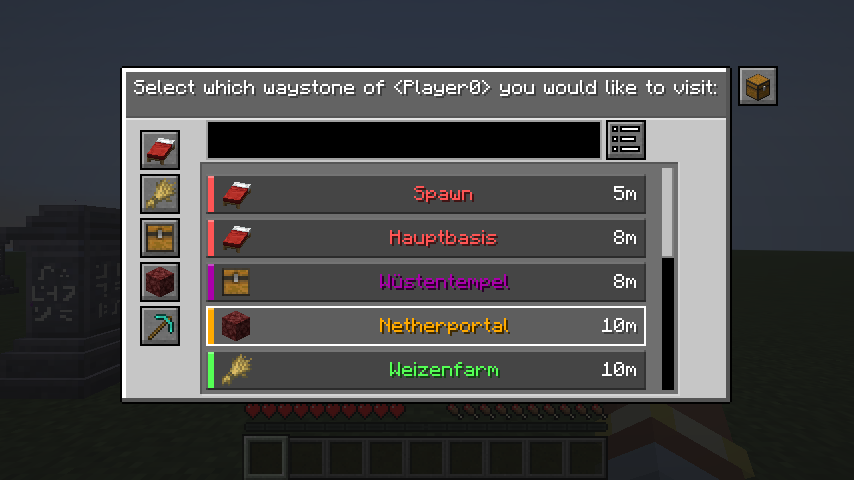
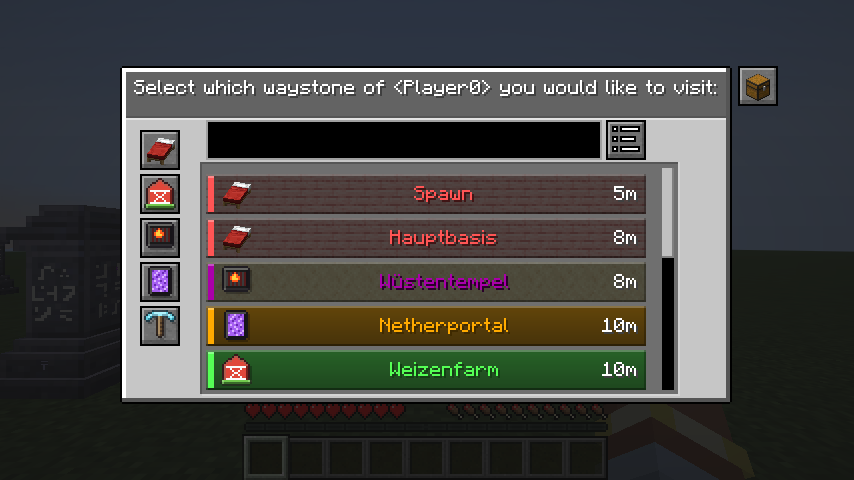
Set author, add GitHub links to mod metadata, refresh gallery
- mod_author F003, updated mod description
- homepage, sources and issue tracker links for Fabric and NeoForge
- publishing description mentions text colours and group styles
- gallery screenshots from the current version

diff --git a/publishing/description.md b/publishing/description.md
@@ -11,6 +11,7 @@ Backgrounds use the block textures of your game, so they match your resource pac
 
 ### 🖌 A background for every waystone
 Hover an entry and click the brush (or right click it). Pick the group colour, one of 16 colours, 70+ block textures or your own picture, for one waystone or for a whole group.
+Pick a **text colour** the same way. Whole groups can also be styled right in the group editor with the **Entry style** button.
 By default every entry is tinted in its group colour, so you can tell your bases, farms and dungeons apart at a glance.
 
 ### 🏰 48 hand-drawn group icons
@@ -24,7 +25,8 @@ Drop a PNG into `config/waystonescustomizations/icons` or `config/waystonescusto
 
 ---
 
-**Requires:** Waystones
+**Requires:** Waystones (and Balm, which Waystones needs anyway; Fabric API on Fabric)
 **Side:** client only (servers don't need it). Group icons are stored on the server by Waystones, so other players need this mod to see our icons. Your own pictures are only visible to players with the same file.
 **Loaders:** Fabric and NeoForge
 **Versions:** 26.1.2, 26.2, 26.3
+**Source & issues:** [github.com/VeridonNetzwerk/Waystones-Customizations](https://github.com/VeridonNetzwerk/Waystones-Customizations)
